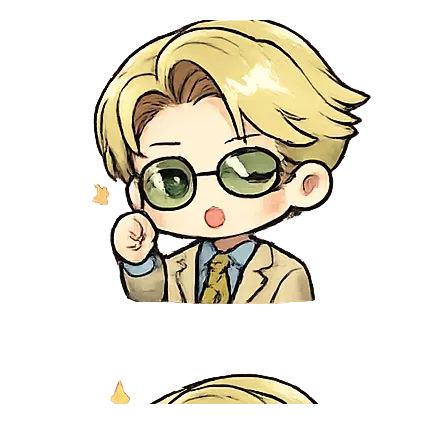
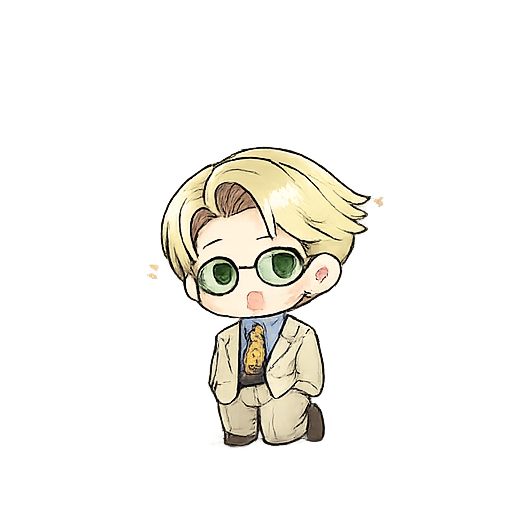
fix: rebuild mobile dock and repair Nana sprites

diff --git a/styles.css b/styles.css
@@ -505,3 +505,243 @@ body.proposal-mode #pageContainer { min-height:100dvh; }
   .login-profile img { width:125px; height:125px; }
 }
 
+/* ===== Mobile dock + Nana asset fix ===== */
+
+@media (max-width: 620px) {
+  :root {
+    --mobile-dock-height: 82px;
+    --mobile-dock-gap: 12px;
+  }
+
+  .app {
+    overflow-x: hidden !important;
+    overflow-y: visible !important;
+    padding-bottom:
+      calc(
+        var(--mobile-dock-height)
+        + 94px
+        + env(safe-area-inset-bottom)
+      ) !important;
+  }
+
+  #pageContainer,
+  .page.active {
+    padding-bottom: 18px;
+  }
+
+  .bottom-nav {
+    position: fixed !important;
+    left: 50% !important;
+    right: auto !important;
+    bottom: max(10px, env(safe-area-inset-bottom)) !important;
+    width: min(calc(100vw - 20px), 480px) !important;
+    height: var(--mobile-dock-height) !important;
+    padding: 8px 10px !important;
+    transform: translateX(-50%) !important;
+    grid-template-columns: repeat(5, minmax(0, 1fr)) !important;
+    align-items: center !important;
+    border-radius: 30px !important;
+    background:
+      linear-gradient(
+        180deg,
+        rgba(255, 250, 252, .97),
+        rgba(246, 220, 235, .96)
+      ) !important;
+    border: 2px solid rgba(255, 255, 255, .92) !important;
+    box-shadow:
+      0 15px 34px rgba(47, 19, 58, .28),
+      inset 0 0 0 1px rgba(226, 158, 190, .82) !important;
+    backdrop-filter: blur(18px);
+    -webkit-backdrop-filter: blur(18px);
+    z-index: 80 !important;
+  }
+
+  .nav-item,
+  .nav-heart {
+    width: 52px !important;
+    height: 52px !important;
+    min-width: 52px !important;
+    min-height: 52px !important;
+    margin: 0 auto !important;
+    padding: 0 !important;
+    border-radius: 50% !important;
+    display: grid !important;
+    place-items: center !important;
+    align-self: center !important;
+    justify-self: center !important;
+    gap: 0 !important;
+    color: #60465f !important;
+    background:
+      linear-gradient(145deg, #fffdfd, #f2dbea) !important;
+    border: 1px solid rgba(224, 173, 202, .92) !important;
+    box-shadow:
+      0 7px 15px rgba(61, 29, 65, .14),
+      inset 0 1px 0 rgba(255, 255, 255, .95) !important;
+    transition:
+      transform .18s ease,
+      box-shadow .18s ease,
+      background .18s ease !important;
+  }
+
+  .nav-item:active,
+  .nav-heart:active {
+    transform: translateY(2px) scale(.94) !important;
+  }
+
+  .nav-item.active {
+    color: #fff !important;
+    background:
+      linear-gradient(145deg, #f783ad, #d94d86) !important;
+    border-color: rgba(255, 202, 225, .96) !important;
+    box-shadow:
+      0 8px 19px rgba(206, 64, 124, .34),
+      0 0 0 4px rgba(255, 176, 210, .18) !important;
+  }
+
+  .nav-item > span:not(.profile-glyph) {
+    display: none !important;
+  }
+
+  .nav-item img {
+    width: 32px !important;
+    height: 32px !important;
+    object-fit: contain !important;
+  }
+
+  .nav-item.active img {
+    filter:
+      brightness(0) invert(1)
+      drop-shadow(0 2px 2px rgba(88, 24, 63, .16));
+  }
+
+  .nav-item i {
+    top: 2px !important;
+    right: 3px !important;
+    width: 10px !important;
+    height: 10px !important;
+    z-index: 2;
+  }
+
+  .nav-heart {
+    width: 70px !important;
+    height: 70px !important;
+    min-width: 70px !important;
+    min-height: 70px !important;
+    transform: translateY(-11px) !important;
+    background:
+      radial-gradient(circle at 40% 28%, #fff7fb, #f3d5e8 72%) !important;
+    border: 2px solid #f5b8d1 !important;
+    box-shadow:
+      0 12px 25px rgba(111, 40, 91, .29),
+      0 0 0 5px rgba(255, 240, 248, .82) !important;
+  }
+
+  .nav-heart:active {
+    transform: translateY(-8px) scale(.91) !important;
+  }
+
+  .nav-heart img {
+    width: 62px !important;
+    height: 60px !important;
+    object-fit: contain !important;
+    filter: drop-shadow(0 5px 3px rgba(86, 31, 79, .24)) !important;
+  }
+
+  .profile-glyph {
+    height: auto !important;
+    font-size: 30px !important;
+    line-height: 1 !important;
+  }
+
+  .nana-widget {
+    position: fixed !important;
+    right: 12px !important;
+    bottom:
+      calc(
+        var(--mobile-dock-height)
+        + 23px
+        + env(safe-area-inset-bottom)
+      ) !important;
+    width: 88px !important;
+    height: 105px !important;
+    padding: 0 !important;
+    transform: none !important;
+    transform-origin: center bottom !important;
+    z-index: 70 !important;
+    filter: drop-shadow(0 8px 8px rgba(45, 15, 50, .22)) !important;
+  }
+
+  .nana-widget img {
+    right: 0 !important;
+    bottom: 19px !important;
+    width: 86px !important;
+    height: 86px !important;
+    object-fit: contain !important;
+  }
+
+  .nana-label {
+    right: 0 !important;
+    bottom: 0 !important;
+    min-width: 76px;
+    padding: 3px 10px !important;
+    border-radius: 999px !important;
+    text-align: center;
+    font-size: 10px !important;
+  }
+
+  .nana-bubble {
+    display: none !important;
+  }
+
+  #toast {
+    bottom:
+      calc(
+        var(--mobile-dock-height)
+        + 20px
+        + env(safe-area-inset-bottom)
+      ) !important;
+    z-index: 120 !important;
+  }
+
+  body.proposal-mode .bottom-nav,
+  body.proposal-mode .nana-widget {
+    display: none !important;
+  }
+}
+
+@media (max-width: 390px) {
+  .bottom-nav {
+    width: calc(100vw - 12px) !important;
+    padding-inline: 6px !important;
+  }
+
+  .nav-item {
+    width: 48px !important;
+    height: 48px !important;
+    min-width: 48px !important;
+    min-height: 48px !important;
+  }
+
+  .nav-heart {
+    width: 66px !important;
+    height: 66px !important;
+    min-width: 66px !important;
+    min-height: 66px !important;
+  }
+
+  .nav-heart img {
+    width: 58px !important;
+    height: 56px !important;
+  }
+
+  .nana-widget {
+    right: 8px !important;
+    width: 80px !important;
+    height: 98px !important;
+  }
+
+  .nana-widget img {
+    width: 78px !important;
+    height: 78px !important;
+  }
+}

diff --git a/sw.js b/sw.js
@@ -1,4 +1,4 @@
-const CACHE = 'my-love-is-you-v6-animated-chibis';
+const CACHE = 'my-love-is-you-v8-mobile-dock-nana';
 const CORE = ['/', '/index.html', '/styles.css', '/config.js', '/src/app.js', '/src/nana.js', '/src/store.js', '/src/animations.js', '/animations.css', '/assets/logo.webp', '/assets/heart-main.webp', '/assets/avatar-adriel.webp', '/assets/avatar-maria.webp', '/assets/pet-cat.webp', '/assets/proposal/banner.webp', '/assets/proposal/sim-heart.webp', '/assets/proposal/nana-ring.webp', '/assets/proposal/ring-box.webp', '/assets/proposal/envelope.webp', '/manifest.webmanifest', '/assets/app-icons/icon-192.png', '/assets/app-icons/icon-512.png'];
 self.addEventListener('install', event => event.waitUntil(caches.open(CACHE).then(cache => cache.addAll(CORE)).then(() => self.skipWaiting())));
 self.addEventListener('activate', event => event.waitUntil(caches.keys().then(keys => Promise.all(keys.filter(k => k !== CACHE).map(k => caches.delete(k)))).then(() => self.clients.claim())));
